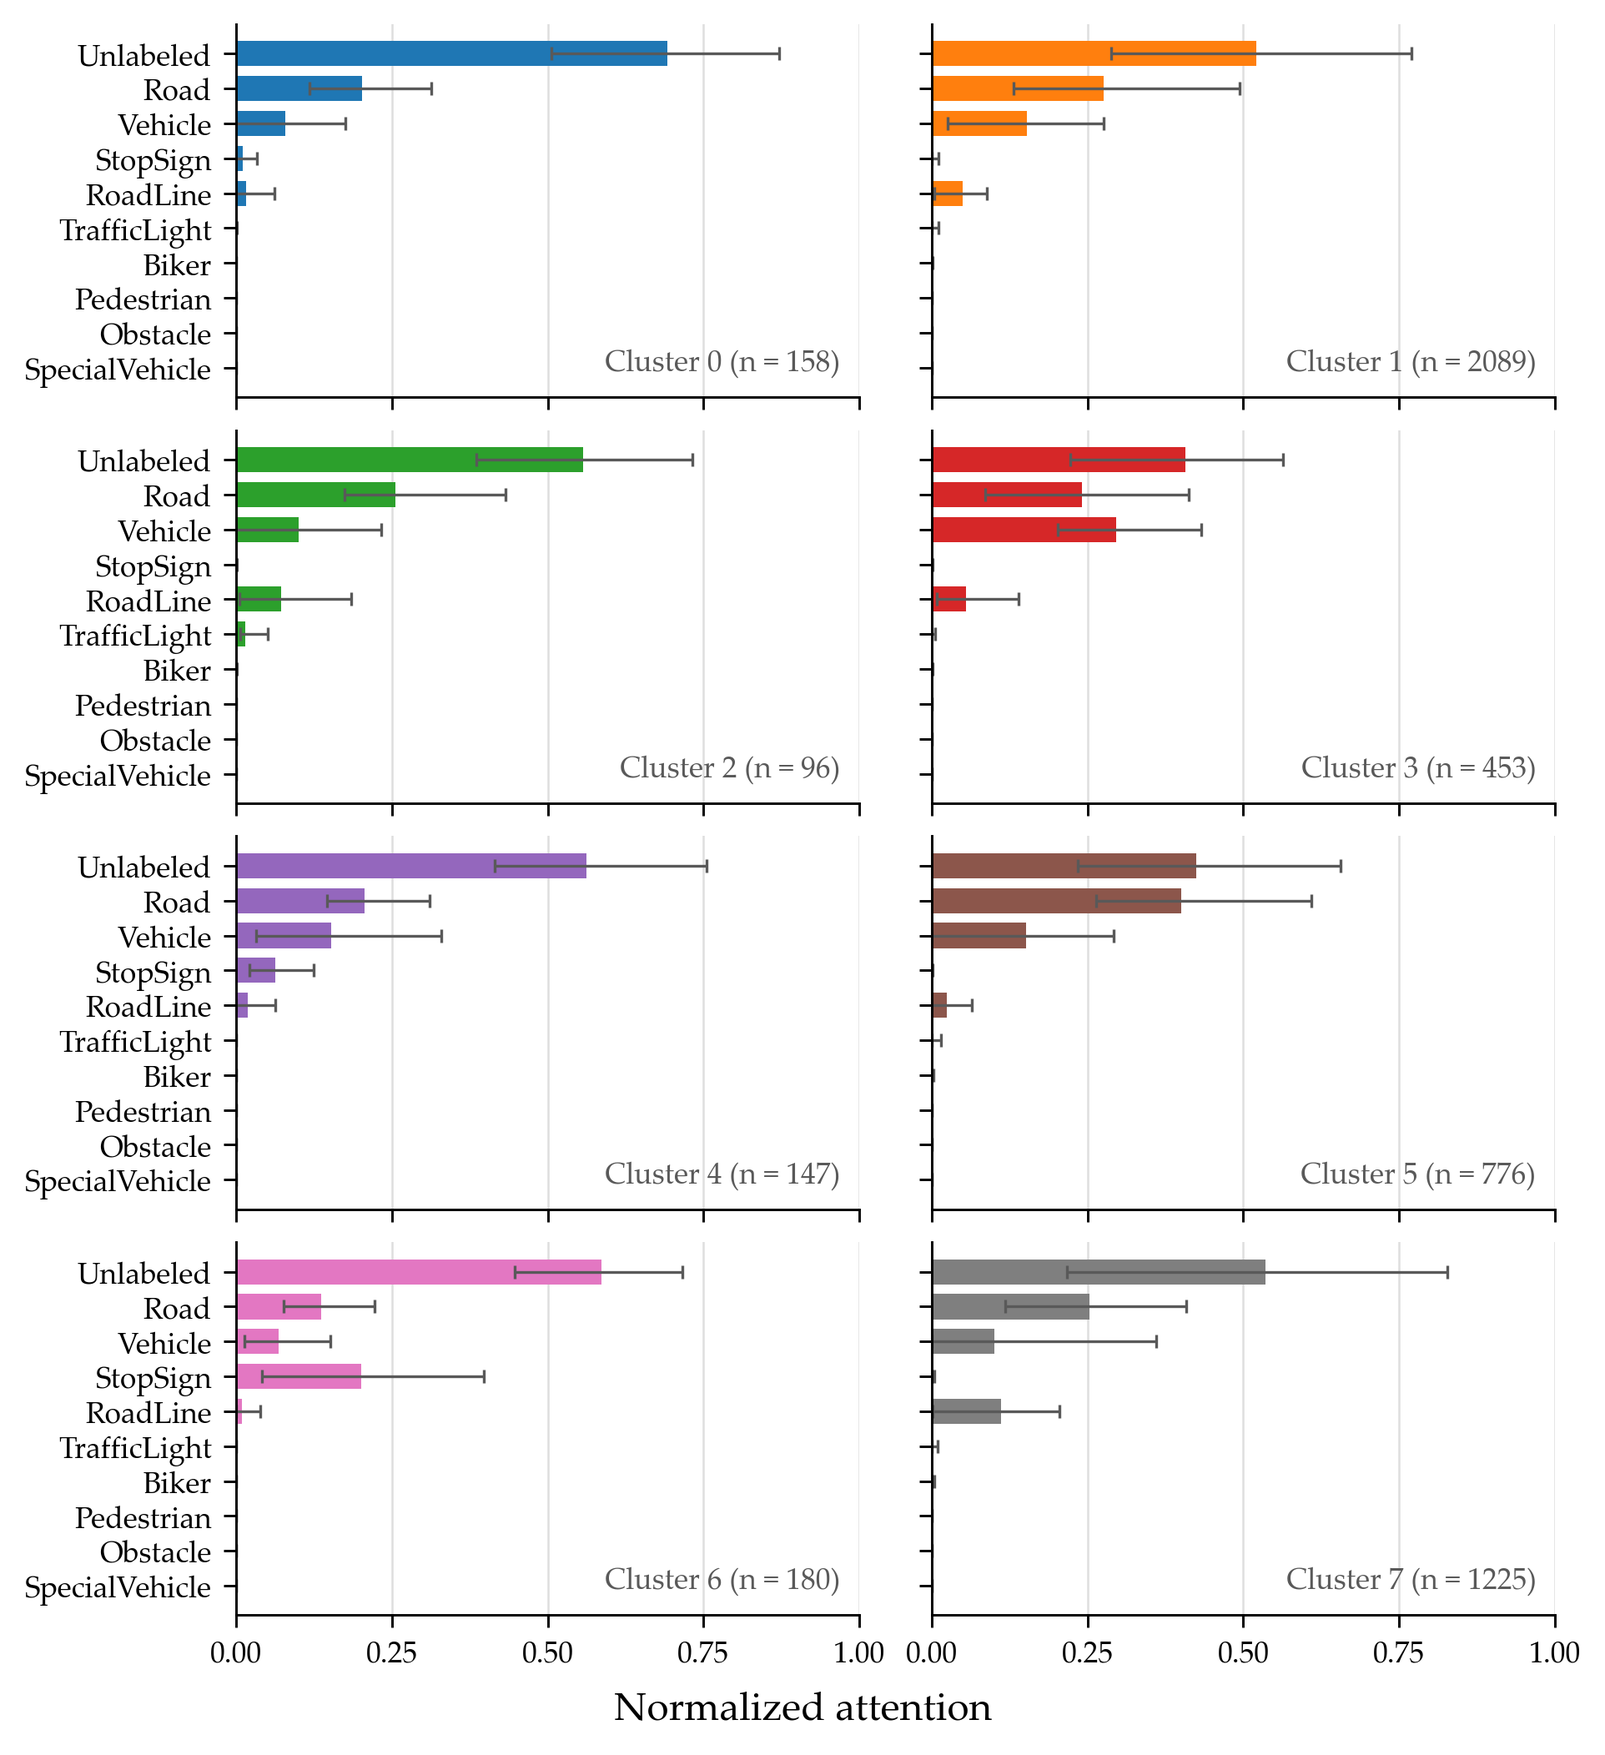
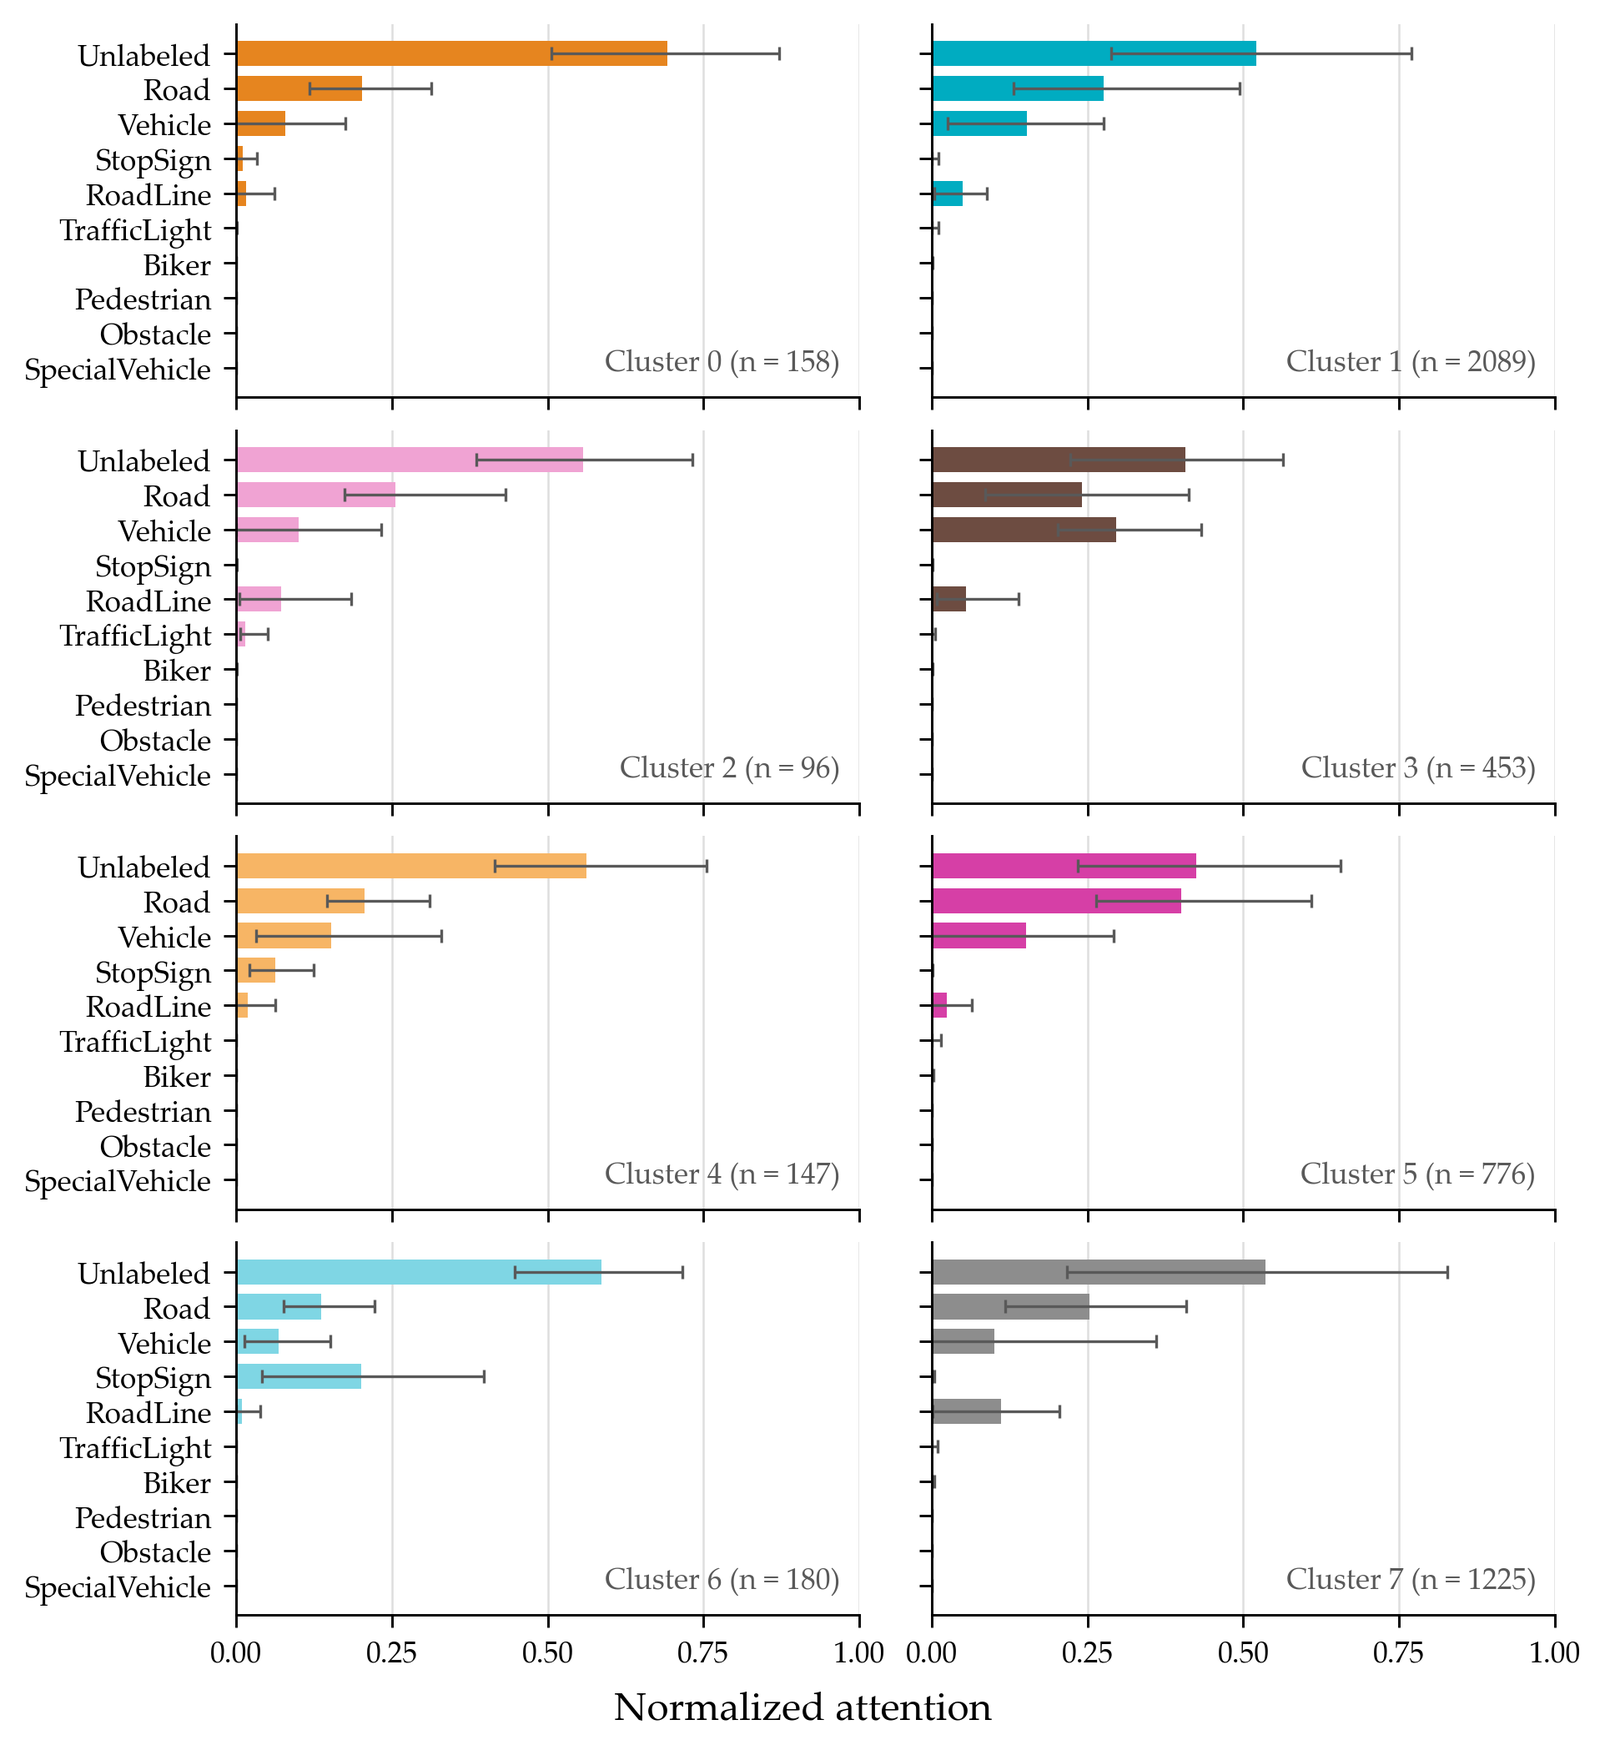
up to date figures

diff --git a/make_thesis_figures.py b/make_thesis_figures.py
@@ -48,6 +48,15 @@ Figures written to `thesis_figures/` (each as .pdf + .png):
        perturbation-onset frame marked.  MDX scores must be cached first via
        cache_live_mdx_scores.py (needs torch/timm); everything else loads
        from the cached live_pert arrays.
+  12. auroc_val_test_vs_K
+       K-selection view: mean GMM-detector AUROC on the validation set (the
+       selection criterion) as a solid line, test-set counterpart dotted;
+       BOTH exclude gaussian-noise frames so the comparison is
+       like-for-like; the selected K=8 marked.
+  13. knn_k_selection
+       Validation AUROC vs neighbour count k (full val set, as used by the
+       pipeline's k selection) for single kNN and kNN-GMM; the selected k of
+       each variant is circled.
 
 Run with any env that has numpy / matplotlib / sklearn — both conda `PCLA`
 (numpy 1.x) and `atoms3` (numpy 2.x) work; a shim below handles the
@@ -107,6 +116,22 @@ OUT_DIR      = ROOT / "thesis_figures"
 # GMM detector families (canonical thesis_style keys) -> matcher on the raw
 # summary.json / results_per_perturbation.json detector names.
 GMM_FAMILIES = ["mahalanobis", "euclidean", "knn", "jsd"]
+
+# Lighter tint of the kNN green for the single (non-GMM) kNN variant — same
+# hue as METRIC_COLORS["knn"], lightness-only contrast (survives CVD/print).
+KNN_SINGLE_COLOR = "#66bb6a"
+
+# Cluster palette: 8 categorical colors that avoid the metric hue families
+# (red, blue, green, purple, rose, gold) so cluster figures are never read
+# as detector figures.  Four free hue families (orange, cyan, magenta/pink,
+# brown) in dark+light steps, plus gray; the largest clusters (1, 3, 5, 7)
+# get the strongest hues.  Shared by the PCA scatter and all attention bars.
+CLUSTER_COLORS = ["#e6851f", "#00acc1", "#f0a3d3", "#6d4c41",
+                  "#f7b565", "#d63fa6", "#7fd6e4", "#8d8d8d"]
+
+
+def cluster_color(k: int) -> str:
+    return CLUSTER_COLORS[k % len(CLUSTER_COLORS)]
 
 PERT_LABELS = {                       # display names for perturbation types
     "brightness_scale": "Brightness",
@@ -352,19 +377,18 @@ def fig_pca_run_vs_gmm() -> None:
                    rasterized=True)
 
     K = len(weights)
-    clus_cmap = plt.get_cmap("tab10")
     axs[1].scatter(proj[:, 0], proj[:, 1],
-                   c=clus_cmap(labels % 10), s=6, alpha=0.5, linewidths=0,
-                   rasterized=True)
+                   c=[cluster_color(l) for l in labels], s=6, alpha=0.5,
+                   linewidths=0, rasterized=True)
     for k in range(K):
-        axs[1].scatter(*cent[k], marker="*", s=120, facecolor=clus_cmap(k % 10),
+        axs[1].scatter(*cent[k], marker="*", s=120, facecolor=cluster_color(k),
                        edgecolor="black", linewidths=0.6, zorder=3)
 
     fig.supxlabel(f"PC1 ({var[0]:.1f} %)")
     fig.supylabel(f"PC2 ({var[1]:.1f} %)")
 
     handles = [Line2D([], [], marker="o", linestyle="none", markersize=5,
-                      markerfacecolor=clus_cmap(k % 10), markeredgewidth=0,
+                      markerfacecolor=cluster_color(k), markeredgewidth=0,
                       label=str(k)) for k in range(K)]
     handles.append(Line2D([], [], marker="*", linestyle="none", markersize=9,
                           markerfacecolor="0.85", markeredgecolor="0.15",
@@ -487,8 +511,8 @@ def fig_auroc_per_perturbation() -> None:
 
     # "knn_single" = plain kNN over the full baseline (no clustering) — kNN is
     # the one detector for which the GMM pooling is conceptually questionable,
-    # so its single variant is reported alongside.  Drawn outlined instead of
-    # filled to mark it as the non-GMM variant.
+    # so its single variant is reported alongside, in a lighter tint of the
+    # kNN green.
     detectors = ["mahalanobis", "euclidean", "knn", "knn_single", "jsd", "mdx", "peoc"]
     hatches = {"mdx": "///", "peoc": "xxx"}   # bar analogue of the dashed lines
 
@@ -511,8 +535,8 @@ def fig_auroc_per_perturbation() -> None:
         ys = np.array([value(src, fam) for src in sources])
         if fam == "knn_single":
             ax.bar(xs, ys - 0.5, bottom=0.5, width=width * 0.92,
-                   facecolor="none", edgecolor=METRIC_COLORS["knn"],
-                   linewidth=1.0)
+                   facecolor=KNN_SINGLE_COLOR, edgecolor="white",
+                   linewidth=0.0)
         else:
             ax.bar(xs, ys - 0.5, bottom=0.5, width=width * 0.92,
                    facecolor=METRIC_COLORS[fam], edgecolor="white",
@@ -532,8 +556,8 @@ def fig_auroc_per_perturbation() -> None:
     handles = []
     for f in detectors:
         if f == "knn_single":
-            handles.append(Patch(facecolor="none", edgecolor=METRIC_COLORS["knn"],
-                                 linewidth=1.0,
+            handles.append(Patch(facecolor=KNN_SINGLE_COLOR, edgecolor="white",
+                                 linewidth=0.0,
                                  label=METRIC_LEGEND["knn"] + " (single)"))
         else:
             handles.append(Patch(facecolor=METRIC_COLORS[f], edgecolor="white",
@@ -596,9 +620,6 @@ def fig_gmm_vs_single_parity() -> None:
 # --------------------------------------------------------------------------- #
 # Figures 6-8 — per-cluster ATOMs attention profiles
 # --------------------------------------------------------------------------- #
-CLUSTER_CMAP = plt.get_cmap("tab10")   # cluster k -> tab10(k), as in figure 2
-
-
 def cluster_attention_stats():
     """Baseline series, GMM cluster labels, profile names and the shared
     class display order (descending by max mean attention across clusters —
@@ -621,7 +642,7 @@ def _cluster_bars(ax, series, labels, k, order_asc, with_whiskers=True):
     xerr = np.vstack([np.clip(vals - lo[order_asc], 0, None),
                       np.clip(hi[order_asc] - vals, 0, None)]) if with_whiskers else None
     ax.barh(np.arange(len(order_asc)), vals, height=0.72,
-            color=CLUSTER_CMAP(k % 10), linewidth=0,
+            color=cluster_color(k), linewidth=0,
             xerr=xerr, error_kw=dict(ecolor="0.35", elinewidth=0.8,
                                      capsize=2.0, capthick=0.8))
     ax.text(0.97, 0.05, f"Cluster {k} (n = {(labels == k).sum()})",
@@ -707,19 +728,162 @@ def fig_attention_by_cluster() -> None:
     width = 0.8 / K
     for k in range(K):
         ax.bar(x0 + (k - (K - 1) / 2) * width, cluster_mean[k][order_desc],
-               width=width * 0.92, color=CLUSTER_CMAP(k % 10), linewidth=0)
+               width=width * 0.92, color=cluster_color(k), linewidth=0)
 
     ax.set_xticks(x0)
     ax.set_xticklabels([names[j] for j in order_desc], rotation=30, ha="right")
     ax.set_ylabel("Normalized attention")
     ax.grid(axis="x", visible=False)
 
-    handles = [Patch(facecolor=CLUSTER_CMAP(k % 10),
+    handles = [Patch(facecolor=cluster_color(k),
                      label=f"Cluster {k} (n = {(labels == k).sum()})")
                for k in range(K)]
     _fig_legend(fig, handles, ncol=4)
 
     save_figure(fig, OUT_DIR, "attention_by_cluster")
+
+
+# --------------------------------------------------------------------------- #
+# Figure 12 — K selection: mean GMM AUROC on val (criterion) vs test
+# --------------------------------------------------------------------------- #
+def fig_val_test_auc_vs_k() -> None:
+    """Mean GMM AUROC vs K: validation (the selection criterion) vs test.
+
+    Both curves EXCLUDE gaussian-noise frames: the val criterion
+    (__val_auc_gmm_avg__) is defined ex-GN, so the test counterpart is
+    recomputed here on the same footing — pooled AUC over clean + the three
+    remaining perturbations, per detector, averaged.  kNN-GMM uses each K's
+    val-selected k (parsed from summary.json)."""
+    from sklearn.metrics import roc_auc_score
+    from ATOMs_Analysis.utils.distance_computer import DistanceComputer as DC
+
+    sweep = load_sweep()
+    Ks = sorted(set().union(*[set(v) for v in sweep.values()]))
+
+    profiles = np.load(TEST_DIR / "attention" / "test_profiles_2.npy").astype(np.float64)
+    tl = np.load(TEST_DIR / "test_labeled.npz", allow_pickle=True)
+    labels = tl["label"].astype(int)
+    mask = tl["perturbation"].astype(str) != "gaussian_noise"
+    series = load_baseline_series()
+
+    val_avg, test_avg = [], []
+    for K in Ks:
+        run = RESULTS_ROOT / f"{K} clusters" / "atoms_analysis_mode_2"
+        summ = json.loads((run / "summary.json").read_text())
+        val_avg.append(summ["__val_auc_gmm_avg__"])
+
+        g = np.load(run / "gmm.npz", allow_pickle=True)
+        means = g["means"].astype(np.float64)
+        covs = g["covariances"].astype(np.float64)
+        weights = g["weights"].astype(np.float64)
+
+        comp_d = np.stack([mahalanobis_batch(profiles, means[c], covs[c])
+                           for c in range(len(weights))])
+        route = comp_d.argmin(axis=0)
+        s_mahal = comp_d.min(axis=0)
+        s_euclid = np.linalg.norm(profiles - means[route], axis=1)
+        s_jsd = np.array([DC.compute_jsd(means[route[i]], profiles[i])
+                          for i in range(len(profiles))])
+        knn_key = next(k for k in summ if "k-NN-GMM" in k)
+        k_val = int(re.search(r"k=(\d+)", knn_key).group(1))
+        s_knn = knn_gmm_scores(profiles, series, means, covs, weights, k=k_val)
+
+        aucs = [roc_auc_score(labels[mask], s[mask])
+                for s in (s_mahal, s_euclid, s_jsd, s_knn)]
+        test_avg.append(float(np.mean(aucs)))
+        # sanity: incl-GN pooled mahal AUC must match the stored summary value
+        auc_all = roc_auc_score(labels, s_mahal)
+        stored = next(v["auc"] for key, v in summ.items()
+                      if isinstance(v, dict) and "Mahalanobis (GMM" in key)
+        if abs(auc_all - stored) > 1e-3:
+            raise RuntimeError(f"K={K}: mahal-GMM {auc_all:.4f} != stored {stored:.4f}")
+
+    print(f"  [info] K={SELECTED_K}: val ex-GN {val_avg[Ks.index(SELECTED_K)]:.4f}  "
+          f"test ex-GN {test_avg[Ks.index(SELECTED_K)]:.4f}")
+
+    fig, ax = plt.subplots(figsize=(5.0, 3.0))
+    lo = min(min(val_avg), min(test_avg)) - 0.012
+    hi = max(max(val_avg), max(test_avg)) + 0.012
+    ax.axvline(SELECTED_K, color="0.78", linewidth=0.8,
+               linestyle=(0, (2, 2)), zorder=1)
+    ax.plot(Ks, val_avg, color="0.15", linewidth=1.9,
+            marker="o", markersize=3.4, markeredgewidth=0, zorder=3)
+    ax.plot(Ks, test_avg, color="0.15", linewidth=1.25,
+            linestyle=(0, (1, 1.6)), marker="o", markersize=2.6,
+            markeredgewidth=0, zorder=2)
+    ax.text(SELECTED_K + 0.25, lo + 0.003, f"$K={SELECTED_K}$",
+            fontsize=7.5, color=MUTED, ha="left", va="bottom")
+
+    ax.set_xlabel("GMM components $K$")
+    ax.set_ylabel("Mean AUROC (GMM detectors)")
+    ax.set_xticks(range(2, 21, 2))
+    ax.set_xlim(1.4, 20.6)
+    ax.set_ylim(lo, hi)
+
+    handles = [
+        Line2D([], [], color="0.15", linewidth=1.9, label="validation"),
+        Line2D([], [], color="0.15", linewidth=1.25, linestyle=(0, (1, 1.6)),
+               label="test"),
+    ]
+    _fig_legend(fig, handles, ncol=2)
+
+    save_figure(fig, OUT_DIR, "auroc_val_test_vs_K")
+
+
+# --------------------------------------------------------------------------- #
+# Figure 13 — kNN neighbour-count selection on the validation set
+# --------------------------------------------------------------------------- #
+def fig_knn_k_selection() -> None:
+    from scipy.spatial.distance import cdist
+    from sklearn.metrics import roc_auc_score
+
+    KS_NN = [1, 5, 10, 25, 50, 100, 250]
+    series = load_baseline_series()
+    vprof = np.load(ROOT / "data" / "TFV6" / "val_data_alt" / "attention"
+                    / "val_profiles_2.npy").astype(np.float64)
+    # k is selected on the FULL val set (incl. gaussian noise), exactly as
+    # run_analysis.py does for results_knn(_gmm)_val_by_k.
+    vlab = np.load(ROOT / "data" / "TFV6" / "val_data_alt"
+                   / "val_labeled.npz")["label"].astype(int)
+
+    def norm(a):
+        return a / (np.linalg.norm(a, axis=-1, keepdims=True) + 1e-12)
+
+    d_single = np.sort(cdist(norm(vprof), norm(series)), axis=1)
+    auc_single = [roc_auc_score(vlab, d_single[:, k - 1]) for k in KS_NN]
+
+    means, covs, weights, _ = load_gmm()
+    auc_gmm = [roc_auc_score(vlab, knn_gmm_scores(vprof, series, means, covs,
+                                                  weights, k=k))
+               for k in KS_NN]
+
+    fig, ax = plt.subplots(figsize=(4.6, 2.8))
+    for aucs, color in ((auc_single, KNN_SINGLE_COLOR),
+                        (auc_gmm, METRIC_COLORS["knn"])):
+        ax.plot(KS_NN, aucs, color=color, linewidth=1.25, alpha=0.95,
+                marker="o", markersize=3.0, markeredgewidth=0)
+        k_best = KS_NN[int(np.argmax(aucs))]
+        ax.scatter([k_best], [max(aucs)], s=64, facecolor="none",
+                   edgecolor=color, linewidths=1.1, zorder=4)
+        print(f"  [info] val-selected k = {k_best} "
+              f"({'single' if color == KNN_SINGLE_COLOR else 'GMM'})")
+
+    ax.set_xscale("log")
+    ax.set_xticks(KS_NN)
+    ax.set_xticklabels([str(k) for k in KS_NN])
+    ax.minorticks_off()
+    ax.set_xlabel("Neighbour count $k$")
+    ax.set_ylabel("Validation AUROC")
+
+    handles = [
+        Line2D([], [], color=KNN_SINGLE_COLOR, linewidth=1.6,
+               label=METRIC_LEGEND["knn"] + " (single)"),
+        Line2D([], [], color=METRIC_COLORS["knn"], linewidth=1.6,
+               label=METRIC_LEGEND["knn"] + " (GMM)"),
+    ]
+    _fig_legend(fig, handles, ncol=2)
+
+    save_figure(fig, OUT_DIR, "knn_k_selection")
 
 
 # --------------------------------------------------------------------------- #
@@ -798,25 +962,29 @@ def main() -> None:
     apply_thesis_style()
     OUT_DIR.mkdir(parents=True, exist_ok=True)
 
-    print("[1/11] GMM AUROC vs K ...")
+    print("[1/13] GMM AUROC vs K ...")
     fig_gmm_auc_vs_k()
-    print("[2/11] Baseline PCA (run vs GMM) ...")
+    print("[2/13] Baseline PCA (run vs GMM) ...")
     fig_pca_run_vs_gmm()
-    print("[3/11] Score distributions (Mahalanobis-GMM vs single kNN) ...")
+    print("[3/13] Score distributions (Mahalanobis-GMM vs single kNN) ...")
     fig_score_distributions()
-    print("[4/11] AUROC per perturbation ...")
+    print("[4/13] AUROC per perturbation ...")
     fig_auroc_per_perturbation()
-    print("[5/11] GMM vs single-Gaussian parity ...")
+    print("[5/13] GMM vs single-Gaussian parity ...")
     fig_gmm_vs_single_parity()
-    print("[6/11] Attention per cluster ...")
+    print("[6/13] Attention per cluster ...")
     fig_attention_per_cluster()
-    print("[7/11] Attention per cluster with representative frames ...")
+    print("[7/13] Attention per cluster with representative frames ...")
     fig_attention_per_cluster_frames()
-    print("[8/11] Attention by cluster (single plot) ...")
+    print("[8/13] Attention by cluster (single plot) ...")
     fig_attention_by_cluster()
     for i, pert in enumerate(LIVE_VARIANTS, start=9):
-        print(f"[{i}/11] Live scores: {pert} ...")
+        print(f"[{i}/13] Live scores: {pert} ...")
         fig_live_scores(pert)
+    print("[12/13] Val vs test mean AUROC over K ...")
+    fig_val_test_auc_vs_k()
+    print("[13/13] kNN k selection on val ...")
+    fig_knn_k_selection()
     print(f"\nDone -> {OUT_DIR}")
 
 

diff --git a/ATOMs_Analysis/atoms_config.py b/ATOMs_Analysis/atoms_config.py
@@ -25,7 +25,7 @@ class ExperimentConfig:
     TESTSET_RECORDING_MODE = False
     LIVE_PERTURBATION_RECORDING_MODE = True
 
-    NUM_GMM_CLUSTERS = 9        # None for automatic BIC selection; overridden by --gmm-k CLI arg
+    NUM_GMM_CLUSTERS = 8        # None for automatic BIC selection; overridden by --gmm-k CLI arg
 
     MODE_ANALYSIS = 2
     FC_RELEVANCE_FILTER = 0.9       # 0.9

diff --git a/CLAUDE.md b/CLAUDE.md
@@ -361,12 +361,17 @@ K sweep, baseline PCA (by run vs by GMM cluster), score distributions of the two
 best GMM detectors (Mahalanobis-GMM vs kNN-GMM), per-perturbation AUROC bars, a
 GMM-vs-single parity scatter, three cluster-attention figures (per-cluster
 bar grid, the same grid with representative frames, and the all-clusters grouped
-bars), and three live-perturbation score-trace figures (Mahalanobis-GMM | MDX |
+bars), three live-perturbation score-trace figures (Mahalanobis-GMM | MDX |
 PEOC per panel; one variant each of brightness_scale / gaussian_noise / pgd —
 MDX scores must be pre-cached once via `cache_live_mdx_scores.py`, which needs
-the `PCLA` env with torch/timm). The per-perturbation bar chart also carries
-plain (non-GMM) kNN as an outlined bar — kNN is the one detector where
-cluster-restricted pools are conceptually questionable. Score arrays are
+the `PCLA` env with torch/timm), a K-selection view (val mean GMM AUROC solid
+vs test dotted), and a kNN k-selection figure (val AUROC vs k, single vs GMM).
+The per-perturbation bar chart also carries plain (non-GMM) kNN in a lighter
+green tint (`KNN_SINGLE_COLOR`) — kNN is the one detector where
+cluster-restricted pools are conceptually questionable. Cluster figures (PCA +
+attention bars) share `CLUSTER_COLORS`, eight hues deliberately outside the
+metric families (orange/cyan/magenta/brown/gray) so cluster and detector
+figures can't be confused. Score arrays are
 recomputed from saved detector parameters; the script
 asserts the recomputed AUCs match the stored results JSONs. Since the
 **uniform-shrinkage fix (2026-07-16**, see `docs/design_decisions.md`), the
